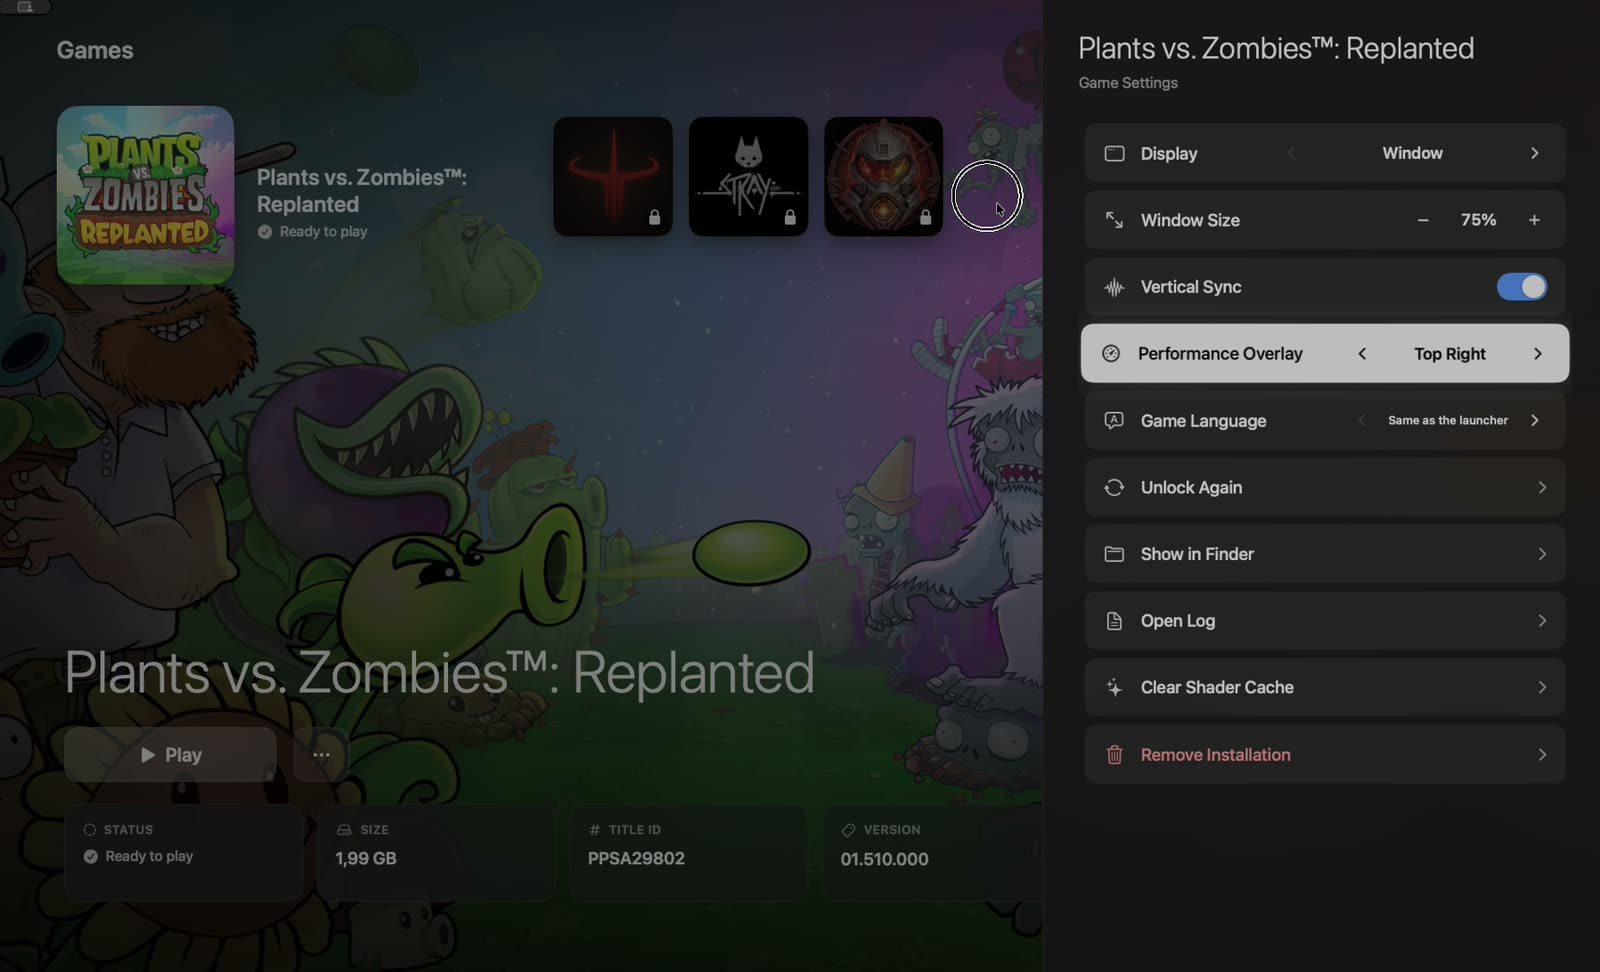
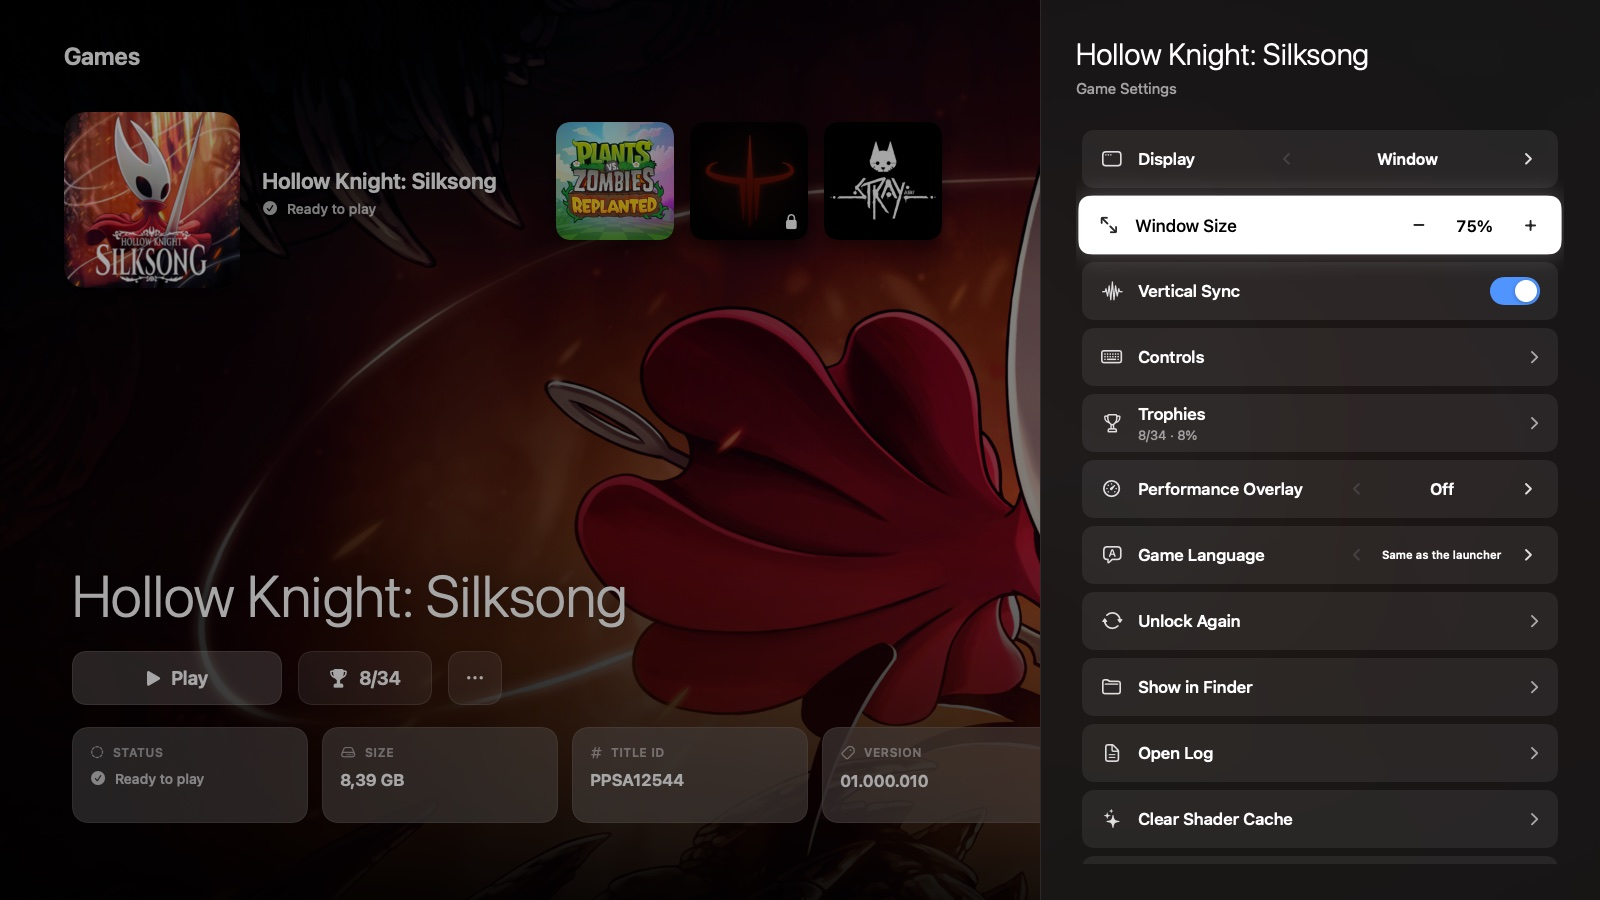
docs(readme): walk through the launcher screen by screen
First start, home, unlocking, starting a game, game settings, controls with the default
layout, trophies, library and settings, and getting around, each with a screenshot. New
screenshots of the home screen with trophies, the start screen, the controls waiting for a
key, the trophy list and the settings; the game settings one now shows Controls and
Trophies.

diff --git a/README.md b/README.md
@@ -6,7 +6,7 @@
 
 ## The AnyPS5 app
 
-**AnyPS5.app** is a launcher laid out like the PS5 home screen. Point it at the folder with your game dumps and it does the rest: it finds the games, unlocks (converts) them for the Mac and starts them.
+**AnyPS5.app** is a launcher laid out like the PS5 home screen. Point it at the folder with your game dumps and it does the rest: it finds the games, unlocks (converts) them for the Mac, starts them, and keeps your controls, saves and trophies per game. No Terminal, build or Vulkan SDK needed.
 
 ![The AnyPS5 launcher in action](docs/videos/launcher-preview.webp)
 
@@ -18,28 +18,109 @@ curl -fsSL https://github.com/utkuhalis/AnyPS5-ARM/releases/latest/download/inst
 
 One line installs it into Applications (and Rosetta 2 if it is missing). A download through `curl` carries no quarantine flag, so macOS opens the app without any "cannot be opened" warning. [⬇ Or download the zip](https://github.com/utkuhalis/AnyPS5-ARM/releases/latest/download/AnyPS5-macOS.zip) · [How to use it](docs/user/GUIDE.md#the-anyps5-app)
 
-- **First start in three steps:** language (Türkçe or English), one of three animated themes (Cosmic, Aurora, Sunset) and the games folder.
-- **Finds your games:** the folder and its subfolders are scanned, and games added later show up on their own, with their icon, artwork, size, title ID and version.
-- **One-click unlock:** a game that is not converted yet shows a lock.
-  - **Unlock** opens `eboot.bin` and the modules even when they are still SELF containers, and relinks them for macOS.
-  - The game app is ready in seconds to a few minutes, with a PS5-style progress bar.
-  - The game files are APFS clones of the dump, so an unlocked game takes no extra space.
-- **Per-game settings:**
-  - output resolution (for titles with a resolution patch, such as Stray);
-  - window or full screen, and the window size;
-  - vertical sync, the performance overlay and the game's language;
-  - **controls:** keyboard and mouse keys for every pad button and stick, set by pressing the key. The default is WASD for the left stick and J/K/L/I for □/✕/○/△;
-  - Show in Finder, the log, clearing the shader cache, unlocking again, removing the installation.
-- **Trophies:** every game's trophy list from its own package, with icons, grades, progress and the day each one was earned, as on the console. Unlocking a game again keeps its saves and trophies.
-- **Personal:**
-  - the theme, the accent color, and the background (the theme animation, your own picture or a looping video);
-  - the selected game's artwork drifting behind the home screen;
-  - animations, interface sounds, the profile name.
-- **Console-style controls:** arrow keys, Return and Esc; a game controller (D-pad, ✕, ○, △); or the mouse and trackpad. A game library grid shows everything at once.
+### First start
 
-| First start | Unlocking | Game settings | Game library |
-|---|---|---|---|
-| ![Picking a theme](docs/screenshots/launcher-themes.jpg) | ![Unlocking a game](docs/screenshots/launcher-unlocking.jpg) | ![Game settings](docs/screenshots/launcher-game-settings.jpg) | ![Game library](docs/screenshots/launcher-library.jpg) |
+Three steps: the language (Türkçe or English), one of three animated themes (Cosmic, Aurora, Sunset) and the games folder. The folder and its subfolders are scanned, and games you add later show up on their own.
+
+<p align="center"><img src="docs/screenshots/launcher-themes.jpg" alt="Picking a theme on the first start" width="720"></p>
+
+### Home screen
+
+![Home screen with Hollow Knight: Silksong selected](docs/screenshots/launcher-home-trophies.jpg)
+
+Every game sits in a row of tiles with its icon. The selected one grows, its artwork drifts behind the screen, and below it are the facts: status, size on disk, title ID and version. A tile with a lock still has to be unlocked. Under the title:
+
+- **Play**, or **Unlock**, **Retry** and **Cancel** as the state calls for.
+- **🏆 8/34**, the trophies earned, when the game has a trophy list.
+- **⋯** for the game's settings.
+
+### Unlocking
+
+![A game being unlocked](docs/screenshots/launcher-unlocking.jpg)
+
+**Unlock** turns a PS5 dump into a Mac app in seconds to a few minutes, with a progress bar like the console's:
+
+1. **Unwrap:** `eboot.bin` and every module are opened, even when they are still SELF containers. A dump that is still encrypted is reported, not converted.
+2. **Relink:** the relinker writes a Mach-O executable and macOS modules. Unity titles get their `Media/Modules` and `Media/Plugins` folders too.
+3. **Copy:** the game files become **APFS clones** of the dump, so an unlocked game takes no extra space.
+4. **Bundle:** the libraries, MoltenVK, the per-title patches and a launch script go into the app.
+
+Several games can be queued. When the launcher's toolkit is newer than the one a game was unlocked with, its status reads **Update available**; **⋯ → Unlock Again** brings it up to date and keeps its saves and trophies.
+
+### Starting a game
+
+![The start screen while a game opens](docs/screenshots/launcher-starting.jpg)
+
+**Play** shows a start screen with the game's icon and a timer until the game's first window appears. The first start of a title takes longest, because Rosetta translates it and its shaders compile; later starts use the caches. Esc stops the game before it shows. Once the window is up the launcher hands it the front, and it can hide itself while you play (Settings → Behaviour). If the game closes before its window appears, the launcher says so, and **⋯ → Open Log** shows why.
+
+### Game settings
+
+<img src="docs/screenshots/launcher-game-settings.jpg" alt="Game settings" align="right" width="440">
+
+Each game keeps its own settings, applied at every start:
+
+- **Output resolution**, for titles with a resolution patch (such as Stray).
+- **Window or full screen**, and the window size.
+- **Vertical sync.**
+- **Controls** (below).
+- **Trophies** (below).
+- **Performance overlay**, off or in any corner of the window.
+- **Game language**: the launcher's, or any of the console's languages.
+- **Unlock Again**, **Show in Finder**, **Open Log**, **Clear Shader Cache** and **Remove Installation**.
+
+<br clear="right">
+
+### Controls
+
+![Waiting for a key for Square](docs/screenshots/launcher-controls.jpg)
+
+The keyboard and mouse layout of each game. Pick a pad button or stick direction and press the key you want; Esc cancels. A key you give to one button leaves the button that had it, and mouse buttons stay where they were. **Reset to Default Keys** brings back the layout below. A connected game controller keeps its own buttons.
+
+| Pad | Keys |
+|-----|------|
+| Left stick | W A S D |
+| ✕ / □ / ○ / △ | K (also Space, Return) / J (also left click) / L / I |
+| L1 / R1 | Q / E |
+| L2 / R2 | U (also mouse button 4) / O (also right click) |
+| L3 / R3 | Shift / Ctrl |
+| D-pad | Arrow keys (also the mouse wheel for up and down) |
+| Right stick | T F G H |
+| Options / touchpad | Esc / Backspace (left) and Tab (right) |
+
+The launcher writes the layout to `~/Library/Application Support/AnyPS5/Controls/<game>.ini` at each start and passes it to the game ([format](docs/user/INPUT_MAPPING.md)).
+
+### Trophies
+
+![The trophy list of Hollow Knight: Silksong](docs/screenshots/launcher-trophies.jpg)
+
+<sub>The progress in this screenshot is sample data.</sub>
+
+Trophies a game unlocks while you play are kept and listed as on the console:
+
+- The **percentage**, weighted by grade as on the PS5, and the count of **platinum, gold, silver and bronze** trophies earned.
+- Every trophy with its **icon, name, description, grade** and the **day and time you earned it**. Trophies you have not earned yet are greyed out.
+- **Hidden** trophies stay hidden until you earn them.
+- Trophies that count something (*Acquire all Tools*, *Bind all Silk Skills*) show **how far you are**, such as 23/51.
+
+The list, the texts and the icons come from the game's own trophy package (`sce_sys/trophy2`), in the game's language when it has one. The engine records each unlock in the installed game, and the list updates when the game closes. Unlocking a game again keeps them.
+
+### Library and settings
+
+| Game library | Settings |
+|---|---|
+| ![Game library](docs/screenshots/launcher-library.jpg) | ![Settings](docs/screenshots/launcher-settings.jpg) |
+
+The **library** button shows every game as a grid. **Settings** hold:
+
+- **Appearance:** the theme, the accent color, and the background (the theme animation, your own picture or a looping video). Also the selected game's artwork behind the home screen and animations.
+- **Library:** the games folder and scanning it again.
+- **Language:** Türkçe or English.
+- **Behaviour:** the profile name, interface sounds, hiding the launcher while a game runs, and installing Rosetta if it is missing.
+- **About:** the app and toolkit versions.
+
+### Getting around
+
+The launcher works like a console: the arrow keys, Return (✕) and Esc (○), `O` (△) for options, or a game controller (D-pad, ✕, ○, △). The mouse and trackpad work too: click a tile, double-click to play, scroll through the row.
 
 ## Games on a Mac
 
